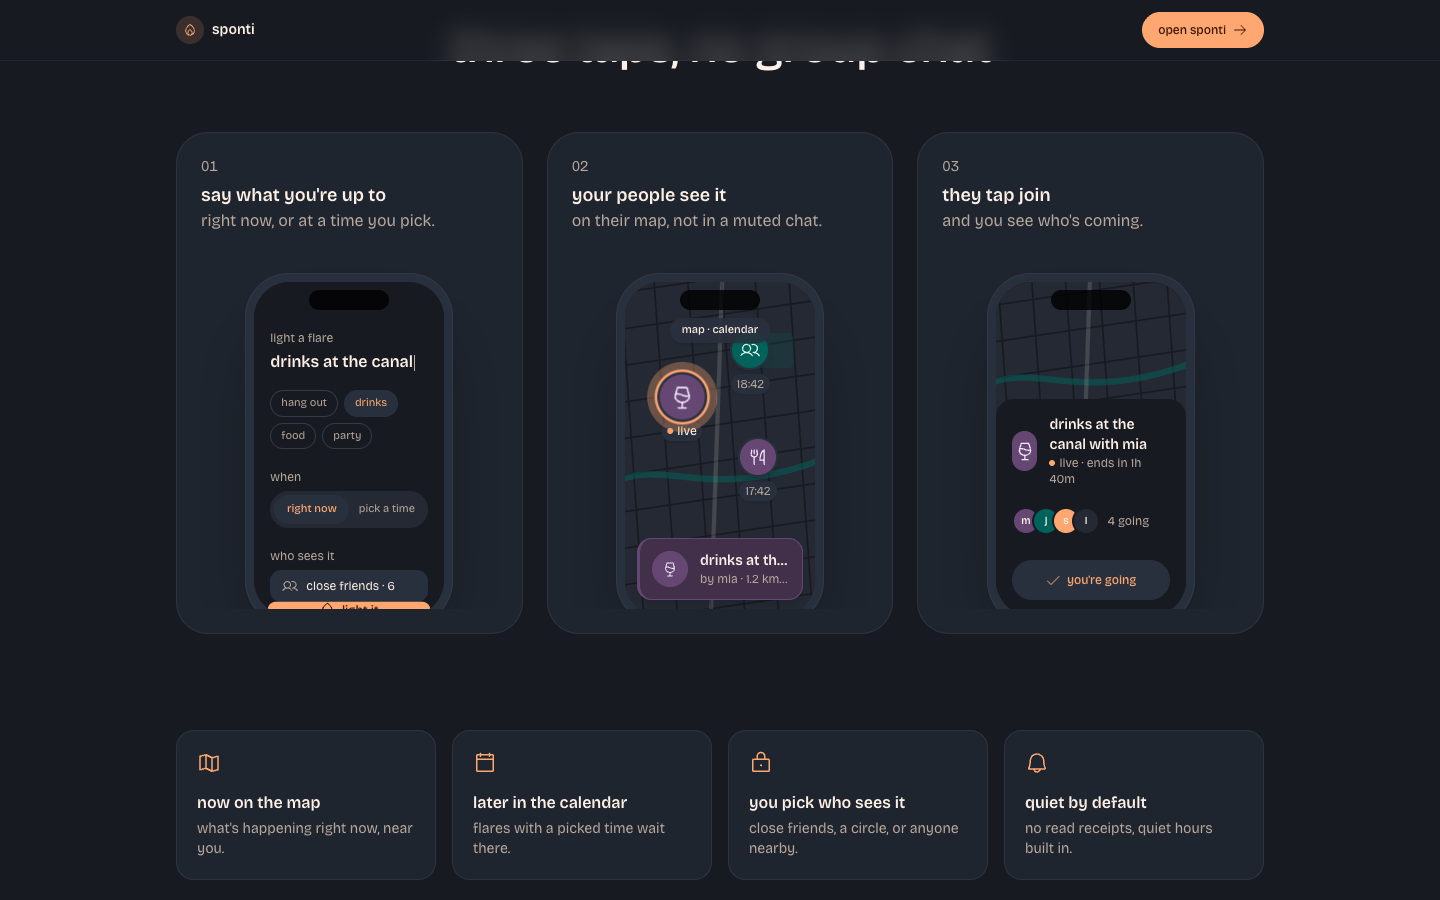
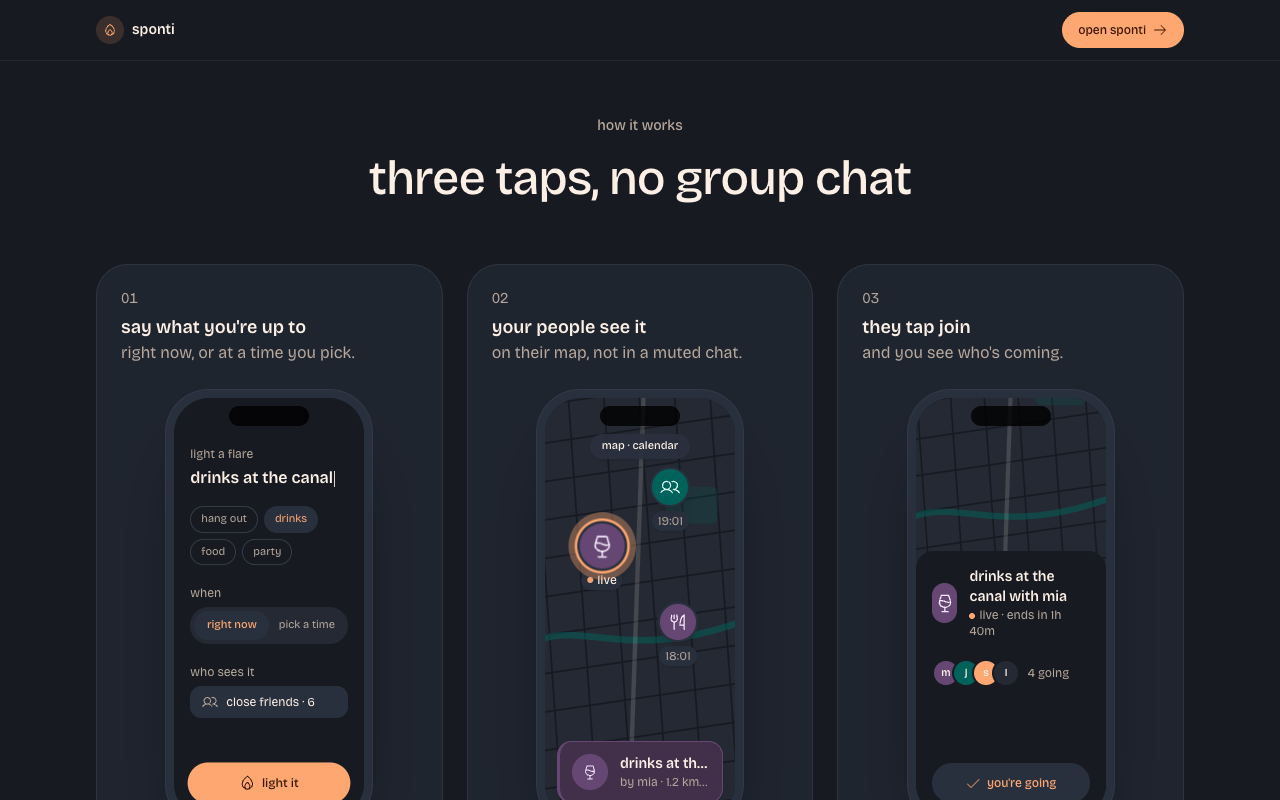
prototype: landing v2 round 2, B picked (#506)
Lighter header, the problem heading types through different plans, the
flare grows and lights up once the apps fold in, and the how-it-works
phones show in full. B is now the default.

diff --git a/spa/app/landing/prototype/_variant-b.tsx b/spa/app/landing/prototype/_variant-b.tsx
@@ -22,6 +22,7 @@ import {
 } from "@/components/icons"
 import { LegalLinks } from "@/components/legal-links"
 import { WHO_REPORT_URL } from "@/components/intro-slides"
+import { useEffect, useState } from "react"
 import { cn } from "@/lib/utils"
 import {
   ArtSlot,
@@ -38,13 +39,14 @@ import {
   spotlight,
   useInView,
   usePointerVar,
+  usePrefersReducedMotion,
   useScrollVar,
 } from "./_shared"
 
 export function VariantB() {
   return (
     <div className="flex flex-col">
-      <header className="sticky top-0 z-30 border-b border-border/40 bg-background/70 backdrop-blur-md">
+      <header className="sticky top-0 z-30 border-b border-border/40 bg-background/30 backdrop-blur-sm">
         <div className="mx-auto flex w-full max-w-6xl items-center justify-between px-6 py-3 lg:px-8">
           <Logo />
           <OpenSponti className="h-9 px-4 text-xs shadow-none" />
@@ -182,9 +184,84 @@ const APPS: { Icon: Icon; label: string; x: number; y: number }[] = [
   { Icon: BellIcon, label: "reminders", x: 0, y: -130 },
 ]
 
+const PLANS = [
+  "beer",
+  "dinner",
+  "picnic",
+  "gig",
+  "bike ride",
+  "game night",
+  "sauna day",
+  "flea market run",
+]
+
+/** Types each word, holds it, deletes it, and moves on. Reduced motion
+ * shows the first word, still. The heading's accessible name is the first
+ * word too, so screen readers don't hear the typing. */
+function Typewriter({ words }: { words: string[] }) {
+  const reduced = usePrefersReducedMotion()
+  const [index, setIndex] = useState(0)
+  const [chars, setChars] = useState(words[0].length)
+  const [deleting, setDeleting] = useState(false)
+  useEffect(() => {
+    if (reduced) return
+    const word = words[index]
+    const timer = window.setTimeout(
+      () => {
+        if (!deleting && chars < word.length) setChars(chars + 1)
+        else if (!deleting) setDeleting(true)
+        else if (chars > 0) setChars(chars - 1)
+        else {
+          setDeleting(false)
+          setIndex((index + 1) % words.length)
+        }
+      },
+      !deleting && chars === word.length ? 1600 : deleting ? 45 : 85
+    )
+    return () => window.clearTimeout(timer)
+  }, [reduced, words, index, chars, deleting])
+  const shown = reduced ? words[0] : words[index].slice(0, chars)
+  return (
+    <>
+      <span className="sr-only">{words[0]}</span>
+      <span aria-hidden="true" className="text-accent-ink dark:text-primary">
+        {shown}
+        <span className="lp-caret ml-0.5 inline-block h-[0.9em] w-[3px] translate-y-[0.1em] rounded-full bg-current" />
+      </span>
+    </>
+  )
+}
+
+/** True once the section has scrolled far enough for the apps to have
+ * folded into the flare; false again when scrolled back, so it relights. */
+function useLit(ref: React.RefObject<HTMLElement | null>) {
+  const [lit, setLit] = useState(false)
+  useEffect(() => {
+    const el = ref.current
+    if (!el) return
+    let frame = 0
+    const check = () => {
+      frame = 0
+      const p = Number(el.style.getPropertyValue("--p") || 0)
+      setLit((was) => (was ? p > 0.55 : p >= 0.6))
+    }
+    const onScroll = () => {
+      if (!frame) frame = requestAnimationFrame(check)
+    }
+    check()
+    window.addEventListener("scroll", onScroll, { passive: true })
+    return () => {
+      cancelAnimationFrame(frame)
+      window.removeEventListener("scroll", onScroll)
+    }
+  }, [ref])
+  return lit
+}
+
 /** Five apps to plan one beer, folding into one flare as you scroll. */
 function Problem() {
   const ref = useScrollVar<HTMLElement>()
+  const lit = useLit(ref)
   // 0 → scattered, 1 → gathered (over the middle of the scroll).
   const gather = "clamp(0, calc((var(--p, 0) - 0.3) * 3.3), 1)"
   return (
@@ -195,7 +272,7 @@ function Problem() {
       <Reveal>
         <p className="text-sm font-medium text-muted-foreground">the problem</p>
         <h2 className="mt-3 text-3xl leading-tight font-medium tracking-tight lg:text-5xl">
-          five apps to plan one beer
+          five apps to plan one <Typewriter words={PLANS} />
         </h2>
         <p className="mt-5 max-w-md text-muted-foreground lg:text-lg">
           a poll in the group chat, a link in an email, an event nobody opens, a
@@ -218,13 +295,23 @@ function Problem() {
           </span>
         ))}
         <span
-          className="absolute top-1/2 left-1/2 flex size-20 items-center justify-center rounded-full bg-accent text-accent-foreground shadow-[0_0_60px_-10px_var(--accent)]"
+          data-lit={lit}
+          className="lp-flare absolute top-1/2 left-1/2 flex size-32 items-center justify-center rounded-full bg-accent text-accent-foreground lg:size-36"
           style={{
-            transform: `translate(-50%, -50%) scale(calc(0.3 + ${gather} * 0.7))`,
+            transform: `translate(-50%, -50%) scale(calc(0.25 + ${gather} * 0.75))`,
             opacity: gather,
           }}
         >
-          <FlameIcon className="size-9" />
+          <span aria-hidden="true" className="lp-flare-ring" />
+          <span
+            aria-hidden="true"
+            className="lp-flare-ring"
+            style={{ animationDelay: "0.35s" }}
+          />
+          <FlameIcon
+            weight="fill"
+            className="lp-flare-icon size-14 lg:size-16"
+          />
         </span>
       </div>
     </section>
@@ -297,8 +384,8 @@ function HowCard({
         <span className="text-sm text-muted-foreground tabular-nums">{n}</span>
         <p className="mt-1 text-lg font-semibold">{title}</p>
         <p className="text-muted-foreground">{body}</p>
-        <div className="mt-6 flex h-[22rem] justify-center overflow-hidden">
-          <Phone className="w-[13rem] translate-y-4 transition-transform duration-500 group-hover:translate-y-0">
+        <div className="mt-6 flex justify-center">
+          <Phone className="w-[13rem] transition-transform duration-500 group-hover:-translate-y-1">
             <Screen play={inView} />
           </Phone>
         </div>

diff --git a/spa/app/landing/prototype/_shared.tsx b/spa/app/landing/prototype/_shared.tsx
@@ -713,7 +713,19 @@ export function PrototypeStyles() {
       .lp-pop { animation: lp-pop .35s cubic-bezier(.3,1.4,.5,1) both; }
       @keyframes lp-float { 0%,100% { translate: 0 0 } 50% { translate: 0 -8px } }
       .lp-float { animation: lp-float 6s ease-in-out infinite; }
+      @keyframes lp-caret { 0%,49% { opacity: 1 } 50%,100% { opacity: 0 } }
+      .lp-caret { animation: lp-caret 1s steps(1) infinite; }
+      .lp-flare { box-shadow: 0 0 40px -12px var(--accent); transition: box-shadow .6s ease; }
+      .lp-flare[data-lit="true"] { animation: lp-glow 2.4s ease-in-out .5s infinite; box-shadow: 0 0 90px 10px color-mix(in oklch, var(--accent) 55%, transparent), 0 0 30px 2px var(--accent); }
+      @keyframes lp-glow { 0%,100% { box-shadow: 0 0 90px 10px color-mix(in oklch, var(--accent) 55%, transparent), 0 0 30px 2px var(--accent) } 50% { box-shadow: 0 0 130px 24px color-mix(in oklch, var(--accent) 40%, transparent), 0 0 40px 6px var(--accent) } }
+      .lp-flare-ring { position: absolute; inset: 0; border-radius: 9999px; border: 2px solid var(--accent); opacity: 0; pointer-events: none; }
+      .lp-flare[data-lit="true"] .lp-flare-ring { animation: lp-burst 1.1s cubic-bezier(.2,.7,.3,1) both; }
+      @keyframes lp-burst { from { transform: scale(1); opacity: .9 } to { transform: scale(2.4); opacity: 0 } }
+      .lp-flare-icon { transition: transform .5s cubic-bezier(.3,1.6,.5,1); }
+      .lp-flare[data-lit="true"] .lp-flare-icon { transform: scale(1.12); animation: lp-flicker 1.8s ease-in-out .6s infinite; transform-origin: 50% 85%; }
+      @keyframes lp-flicker { 0%,100% { transform: scale(1.12) rotate(0) } 25% { transform: scale(1.16,1.08) rotate(-3deg) } 50% { transform: scale(1.1,1.16) rotate(2deg) } 75% { transform: scale(1.15,1.1) rotate(-1deg) } }
       @media (prefers-reduced-motion: reduce) {
+        .lp-caret, .lp-flare[data-lit="true"], .lp-flare[data-lit="true"] .lp-flare-ring, .lp-flare[data-lit="true"] .lp-flare-icon { animation: none; }
         .lp-reveal { opacity: 1; transform: none; transition: none; }
         .lp-pop, .lp-float { animation: none; }
         [data-landing-v2] * { transition-duration: 0s !important; }

diff --git a/spa/app/landing/prototype/page.tsx b/spa/app/landing/prototype/page.tsx
@@ -26,8 +26,8 @@ type Key = keyof typeof VARIANTS
 
 function Prototype() {
   const params = useSearchParams()
-  const v = (params.get("v") ?? "a") as Key
-  const key: Key = v in VARIANTS ? v : "a"
+  const v = (params.get("v") ?? "b") as Key
+  const key: Key = v in VARIANTS ? v : "b"
   const { View } = VARIANTS[key]
   const bar = params.get("bar") !== "0"
   return (
